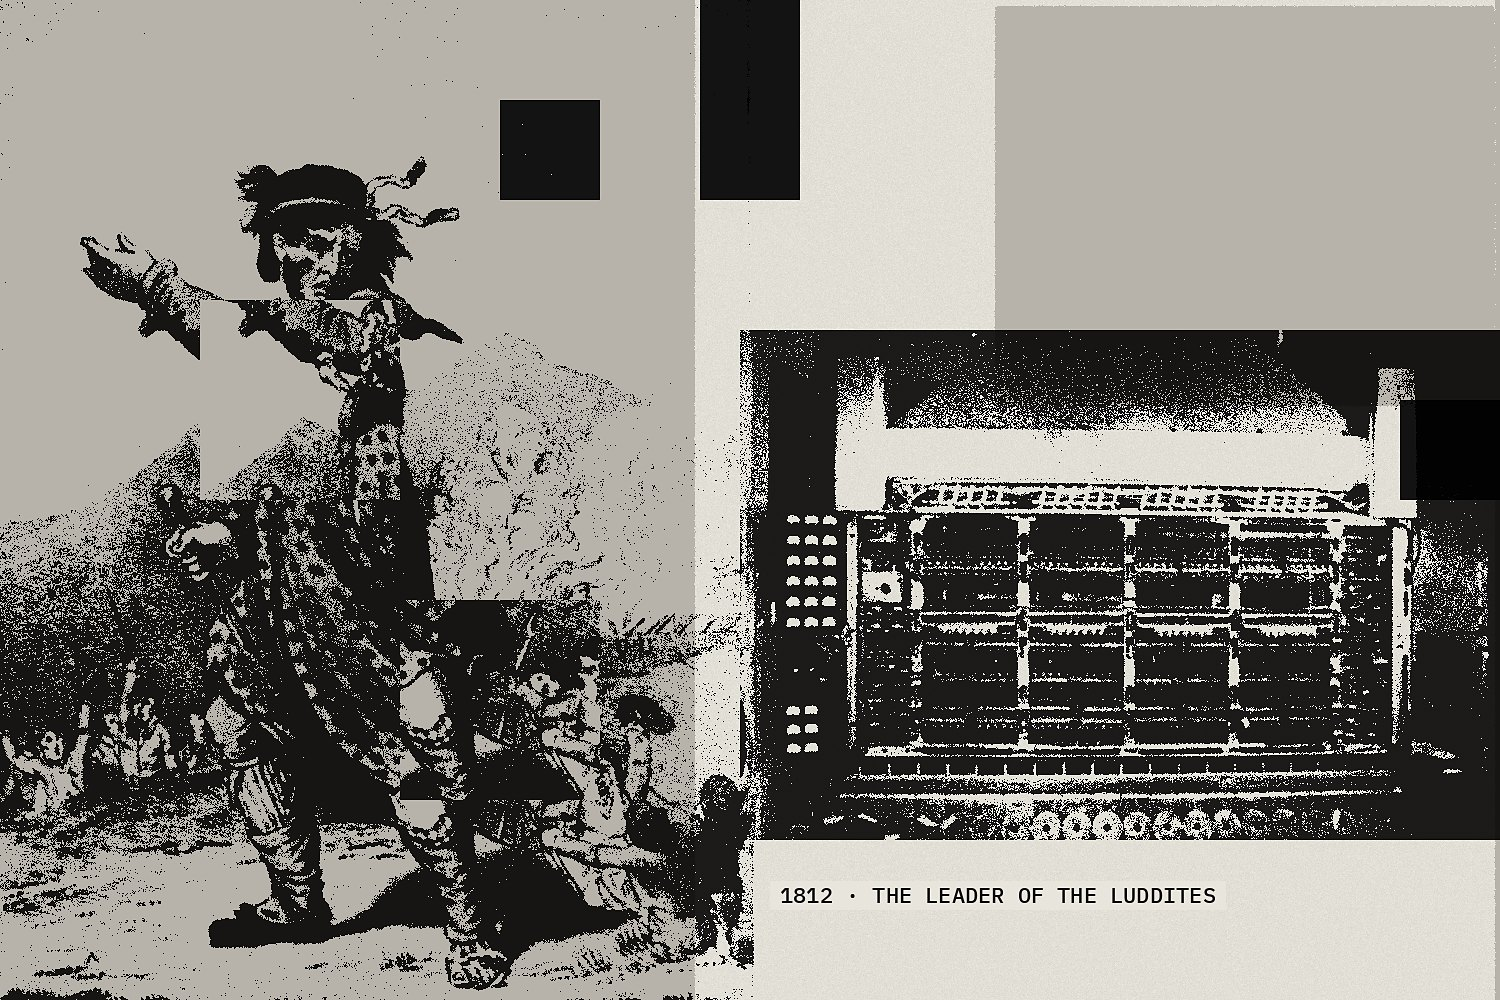
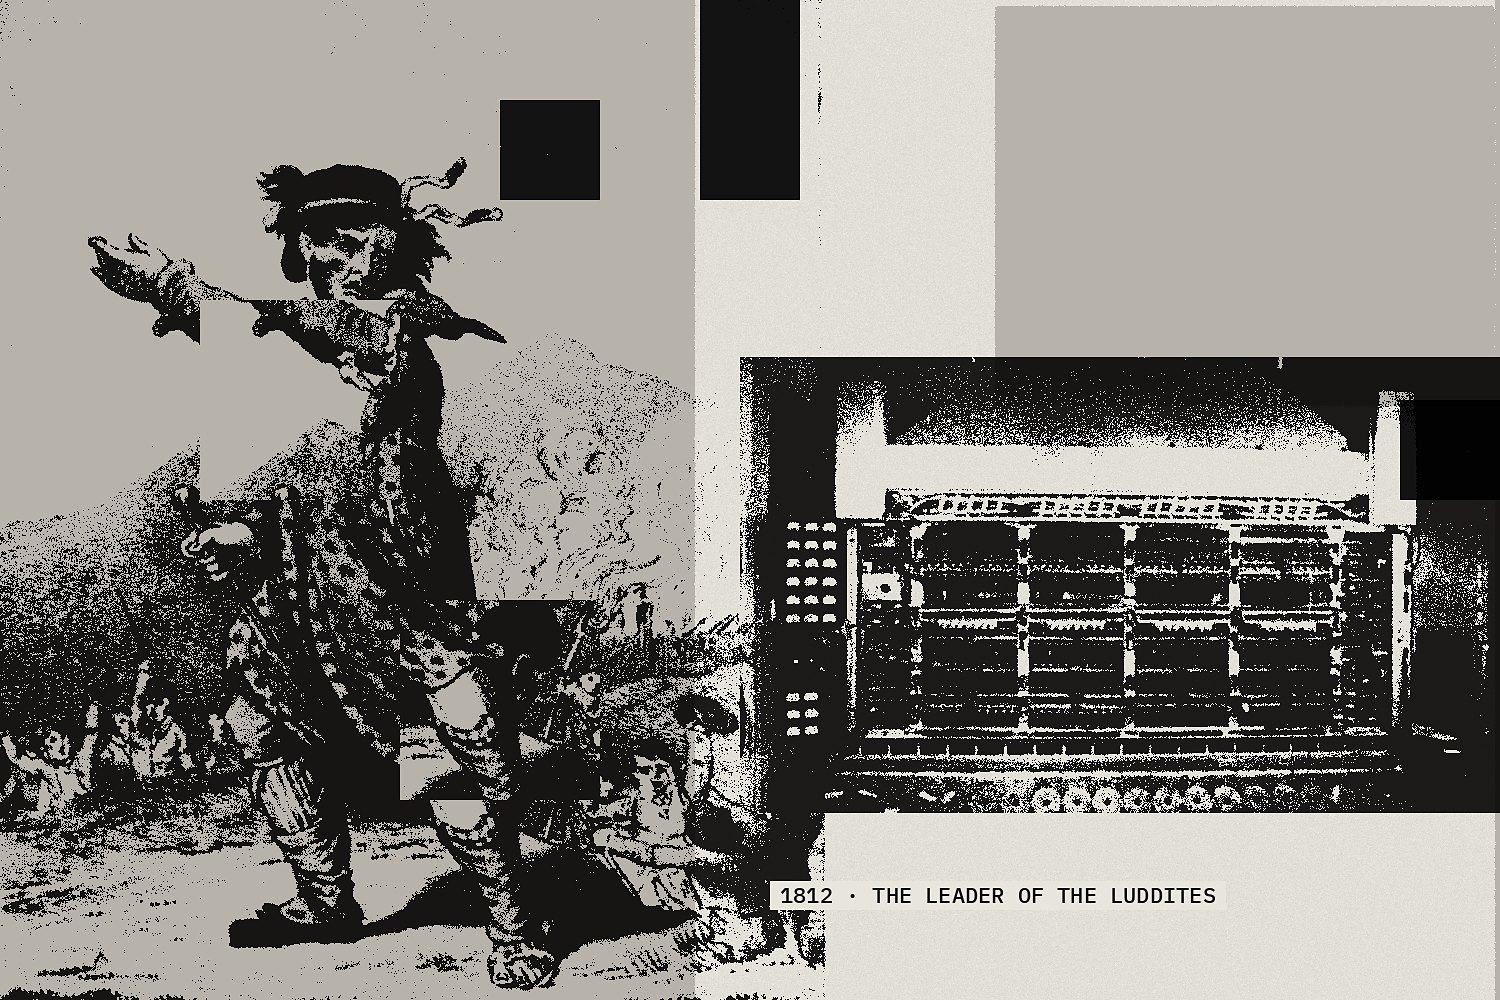
Vertical page images for the seven themes; fix stretched photos; warn on stretched crops
Claude-Session: https://claude.ai/code/session_01Sc1pzyhKsrC3mM6v1oVhk6

Changed region(s): [[0.0, 0.155, 1.0, 1.0], [0.0, 0.961, 0.1227, 1.0], [0.184, 0.992, 0.2453, 1.0]]

diff --git a/src/content.config.ts b/src/content.config.ts
@@ -19,6 +19,7 @@ const isms = defineCollection({
     includes: z.array(z.string()).default([]),
     aka: z.string().optional(),
     image: reference('images').optional(),
+    pageImage: reference('images').optional(), // the vertical (4:5) image at the top of the page
     lead: z.string().optional(),
     holders: z.array(z.object({ name: z.string(), note: z.string() })).default([]),
     words: z.array(z.string()).default([]),
@@ -38,6 +39,7 @@ const themes = defineCollection({
     summary: z.string(),
     includes: z.array(z.string()).default([]),
     image: reference('images').optional(),
+    pageImage: reference('images').optional(), // the vertical (4:5) image at the top of the page
     lead: z.string().optional(),
     isms: z.array(z.object({ ism: reference('isms'), text: z.string() })).default([]),
     strands: z

diff --git a/scripts/collages.py b/scripts/collages.py
@@ -6,7 +6,7 @@ import numpy as np
 from PIL import Image, ImageDraw, ImageFont, ImageFilter
 from scipy import ndimage
 
-import os
+import os, sys
 ROOT = os.path.dirname(os.path.dirname(os.path.abspath(__file__)))
 IMG = os.path.join(ROOT, 'public/images/')
 OUT = os.path.join(ROOT, 'public/images/')
@@ -28,6 +28,9 @@ def gray(name, box, crop=None, channel=None, detail=0):
     if crop:
         w, h = im.size
         im = im.crop((int(crop[0] * w), int(crop[1] * h), int(crop[2] * w), int(crop[3] * h)))
+    ratio = (im.size[0] / im.size[1]) / (box[0] / box[1])
+    if abs(ratio - 1) > 0.03:
+        print(f'WARNING {name}: box {box} stretches the crop by {abs(ratio - 1):.0%}; keep its aspect ratio', file=sys.stderr)
     im = im.resize(box, Image.LANCZOS)
     a = np.asarray(im, float) / 255
     if detail:                                            # local contrast, so fine ribs and grooves survive
@@ -116,7 +119,7 @@ def render(spec):
     return img
 
 
-ISM, THEME = (1600, 1200), (1500, 1000)
+ISM, THEME, PAGE = (1600, 1200), (1500, 1000), (1200, 1500)   # PAGE: the vertical image at the top of a page, 4:5, 12 x 15 squares
 SPECS = [
     dict(id='collage-transhumanism', size=ISM, colour=GREEN,
          fields=[(0, 1, 8, 9), (9, 0, 7, 6)], black=[(8, 0, 1, 2), (0, 10, 1, 2), (15, 7, 1, 1)],
@@ -162,12 +165,12 @@ SPECS = [
          labels=[('1954 · "TOO CHEAP TO METER" · LEWIS STRAUSS', 830, 222), ('AN ELECTRICITY METER', 40, 960)]),
     dict(id='collage-power', size=THEME, colour=GREY, seed=89,
          fields=[(0, 0, 9, 8)], black=[(12, 0, 1, 1), (14, 7, 1, 1)],
-         fragments=[dict(img='gpu-h100.jpg', box=(1080, 723), crop=(0.065, 0.13, 0.775, 0.945), how='screen', level=0.55, detail=3, blur=0.5, at=(40, 80))],
+         fragments=[dict(img='gpu-h100.jpg', box=(1080, 698), crop=(0.065, 0.13, 0.775, 0.945), how='screen', level=0.55, detail=3, blur=0.5, at=(40, 92))],
          shift=[(3, 2, 2, 2, 1, 0), (8, 5, 1, 2, 0, 1)], invert=[(1, 6, 1, 1)],
          labels=[('26 AUG 2022 · THE US REQUIRES A LICENCE TO SELL THE H100 TO CHINA', 40, 930)]),
     dict(id='collage-the-tool', size=THEME, colour=GREY, seed=144,
          fields=[(0, 0, 6, 6), (10, 6, 5, 4)], black=[(6, 0, 1, 1), (14, 9, 1, 1)],
-         fragments=[dict(img='engelbart-1968.jpg', box=(1240, 820), crop=(0.12, 0.34, 0.88, 0.92), how='screen', level=0.42, at=(130, 120))],
+         fragments=[dict(img='engelbart-1968.jpg', box=(1240, 631), crop=(0.12, 0.34, 0.88, 0.92), how='screen', level=0.42, at=(130, 180))],
          shift=[(8, 3, 2, 2, 1, 0), (4, 6, 2, 1, 0, 1)], invert=[(11, 2, 1, 1)],
          labels=[('1964 · THE FIRST MOUSE', 40, 960)]),
     dict(id='collage-scale', size=THEME, colour=GREY, seed=233,
@@ -178,7 +181,7 @@ SPECS = [
          labels=[('1960 · MARK I PERCEPTRON', 40, 960), ('FLOP · THE EU AI ACT THRESHOLD', 850, 900)]),
     dict(id='collage-rights-and-dignity', size=THEME, colour=GREY, seed=377,
          fields=[(0, 2, 8, 7)], black=[(8, 1, 1, 1), (14, 8, 1, 1)],
-         fragments=[dict(img='facial-recognition-camera.jpg', box=(860, 460), crop=(0.23, 0.69, 0.79, 0.90), channel='B', how='screen', level=0.42, at=(0, 300))],
+         fragments=[dict(img='facial-recognition-camera.jpg', box=(860, 430), crop=(0.23, 0.69, 0.79, 0.90), channel='B', how='screen', level=0.42, at=(0, 315))],
          shift=[(3, 6, 1, 1, -1, 0)], invert=[(6, 3, 1, 1)],
          labels=[("2 FEB 2025 · THE EU AI ACT'S BANS APPLY", 930, 525), ('POLICE FACIAL-RECOGNITION CAMERA · LONDON · 2026', 40, 960)]),
     dict(id='collage-self-determination', size=THEME, colour=GREY, seed=610,
@@ -188,10 +191,48 @@ SPECS = [
          labels=[('4TH CENTURY BCE · KLEROTERION, ATHENS', 40, 960)]),
     dict(id='collage-critique', size=THEME, colour=GREY, seed=987,
          fields=[(0, 0, 7, 10), (10, 0, 5, 4)], black=[(7, 0, 1, 2), (14, 4, 1, 1)],
-         fragments=[dict(img='luddites-1812.jpg', box=(760, 1000), crop=(0.05, 0.04, 0.95, 0.86), how='screen', level=0.55, at=(0, 0)),
-                    dict(img='sing-ias-computer.jpg', box=(760, 510), crop=(0.0, 0.05, 1.0, 0.95), how='screen', level=0.5, at=(740, 330))],
+         fragments=[dict(img='luddites-1812.jpg', box=(832, 1000), crop=(0.05, 0.04, 0.95, 0.86), how='screen', level=0.55, at=(0, 0)),
+                    dict(img='sing-ias-computer.jpg', box=(760, 456), crop=(0.0, 0.05, 1.0, 0.95), how='screen', level=0.5, at=(740, 357))],
          shift=[(2, 3, 2, 2, 1, 0), (4, 6, 2, 2, 0, -1)], invert=[(5, 1, 1, 1)],
          labels=[('1812 · THE LEADER OF THE LUDDITES', 780, 880)]),
+    # Vertical page images (4:5), one per theme: the same object and fact, composed for the tall frame
+    dict(id='collage-scale-tall', size=PAGE, colour=GREY, seed=233,
+         fields=[(0, 0, 9, 8)], black=[(11, 1, 1, 1), (0, 12, 1, 2)],
+         fragments=[dict(img='perceptron-1958.jpg', box=(1040, 843), how='screen', level=0.55, at=(0, 100))],
+         shift=[(3, 2, 2, 2, 1, 0), (5, 6, 2, 1, -1, 0)],
+         type=[dict(slab=(5, 10, 7, 4), parts=[('10', 300, 560, 1030), ('25', 140, 885, 1010)])],
+         labels=[('FLOP · THE EU AI ACT THRESHOLD', 565, 1345), ('1960 · MARK I PERCEPTRON', 40, 1440)]),
+    dict(id='collage-power-tall', size=PAGE, colour=GREY, seed=89,
+         fields=[(0, 2, 9, 10)], black=[(10, 0, 1, 1), (11, 13, 1, 1)],
+         fragments=[dict(img='gpu-h100.jpg', box=(1120, 724), crop=(0.065, 0.13, 0.775, 0.945), how='screen', level=0.55, detail=3, blur=0.5, at=(40, 380))],
+         shift=[(3, 5, 2, 2, 1, 0), (8, 8, 1, 2, 0, 1)], invert=[(1, 9, 1, 1)],
+         labels=[('26 AUG 2022 · THE US REQUIRES A LICENCE TO SELL THE H100 TO CHINA', 40, 1440)]),
+    dict(id='collage-rights-and-dignity-tall', size=PAGE, colour=GREY, seed=377,
+         fields=[(0, 4, 7, 7)], black=[(7, 3, 1, 1), (11, 12, 1, 1)],
+         fragments=[dict(img='facial-recognition-camera.jpg', box=(800, 400), crop=(0.23, 0.69, 0.79, 0.90), channel='B', how='screen', level=0.42, at=(0, 560))],
+         shift=[(3, 9, 1, 1, -1, 0)], invert=[(5, 5, 1, 1)],
+         labels=[('2 FEB 2025', 830, 700), ("THE EU AI ACT'S BANS APPLY", 830, 742), ('POLICE FACIAL-RECOGNITION CAMERA · LONDON · 2026', 40, 1440)]),
+    dict(id='collage-abundance-tall', size=PAGE, colour=GREY, seed=55,
+         fields=[(0, 1, 8, 10)], black=[(8, 0, 1, 2), (11, 9, 1, 1)],
+         fragments=[dict(img='electricity-meter.jpg', box=(760, 760), crop=(0.04, 0.06, 0.96, 0.86), how='screen', level=0.5, at=(40, 220))],
+         shift=[(3, 5, 2, 2, 1, 0), (6, 3, 1, 2, 0, 1)], invert=[(1, 8, 1, 1)],
+         labels=[('1954 · "TOO CHEAP TO METER"', 820, 365), ('LEWIS STRAUSS', 820, 407), ('AN ELECTRICITY METER', 40, 1440)]),
+    dict(id='collage-the-tool-tall', size=PAGE, colour=GREY, seed=144,
+         fields=[(0, 3, 7, 7), (8, 10, 4, 3)], black=[(7, 2, 1, 1), (11, 14, 1, 1)],
+         fragments=[dict(img='engelbart-1968.jpg', box=(1100, 560), crop=(0.12, 0.34, 0.88, 0.92), how='screen', level=0.42, at=(50, 470))],
+         shift=[(8, 6, 2, 2, 1, 0), (4, 8, 2, 1, 0, 1)], invert=[(10, 5, 1, 1)],
+         labels=[('1964 · THE FIRST MOUSE', 40, 1440)]),
+    dict(id='collage-self-determination-tall', size=PAGE, colour=GREY, seed=610,
+         fields=[(0, 1, 6, 8), (8, 10, 4, 4)], black=[(11, 1, 1, 1), (0, 13, 1, 1)],
+         fragments=[dict(img='kleroterion.jpg', box=(1120, 739), how='screen', level=0.47, at=(40, 360))],
+         shift=[(4, 5, 2, 2, 1, 0), (8, 8, 2, 2, 0, 1)], invert=[(3, 4, 2, 2)],
+         labels=[('4TH CENTURY BCE · KLEROTERION, ATHENS', 40, 1440)]),
+    dict(id='collage-critique-tall', size=PAGE, colour=GREY, seed=987,
+         fields=[(0, 0, 7, 12), (8, 0, 4, 4)], black=[(7, 0, 1, 2), (11, 5, 1, 1)],
+         fragments=[dict(img='luddites-1812.jpg', box=(916, 1101), crop=(0.05, 0.04, 0.95, 0.86), how='screen', level=0.55, at=(0, 0)),
+                    dict(img='sing-ias-computer.jpg', box=(700, 420), crop=(0.0, 0.05, 1.0, 0.95), how='screen', level=0.5, at=(500, 980))],
+         shift=[(2, 4, 2, 2, 1, 0), (4, 8, 2, 2, 0, -1)], invert=[(5, 2, 1, 1)],
+         labels=[('1812 · THE LEADER OF THE LUDDITES', 40, 1440)]),
 ]
 
 if __name__ == '__main__':

diff --git a/WORKPLAN.md b/WORKPLAN.md
@@ -42,6 +42,7 @@ Every session starts here: find the first stage that is not done, do the next pi
 ## Log
 
 - 2026-11-20: Collage set made for all 13 cards; Abundance rebuilt around an electricity meter (batch 3, 1 image, CC BY-SA 4.0).
+- 2026-11-20: Vertical page images (4:5, 1200 × 1500) for the seven themes, shown at the top of each theme page (`pageImage`). Fixed stretched photos on The tool, Rights and dignity, Critique and Power; the engine now warns when a box stretches its crop (ism cards still have some, to fix in their rework).
 - 2026-11-20: Illustration guide made as a design system, "Made Minds Illustration", from the seven theme cards and the owner's feedback. Ism cards to be reworked next, then added.
 - 2026-11-20: Site named Made Minds (owner). Power and Rights and dignity collages rebuilt around objects (batch 4: four NVIDIA H100 cards, CC BY 3.0; a London police facial-recognition camera, CC BY-SA 4.0). Then, at the owner's request, fewer big numbers: Power is the chips alone (label: the 2022 US licence for H100 sales to China); Rights and dignity shows EU. Then no big type on Abundance or Rights and dignity either: type stays only where it comes from another time than the object (2045, 10²⁵, e/acc, BUILD).
 - 2026-11-20: Image batch 2 (3 card images) downloaded; every ism card now has an image. Home grid rows aligned.

diff --git a/src/content/themes/self-determination.md b/src/content/themes/self-determination.md
@@ -5,6 +5,7 @@ ready: true
 summary: Who gets to decide, over data, over communities, over the future of AI itself.
 includes: [data sovereignty, democratic plurality]
 image: collage-self-determination
+pageImage: collage-self-determination-tall
 lead: Self-determination asks who decides how AI uses people's data and shapes their future, and the isms split between voice, markets, personal choice and exit.
 isms:
   - ism: transhumanism

diff --git a/src/content/themes/abundance.md b/src/content/themes/abundance.md
@@ -5,6 +5,7 @@ ready: true
 summary: The promise that AI will make intelligence and energy so cheap that scarcity ends.
 includes: [post-work]
 image: collage-abundance
+pageImage: collage-abundance-tall
 lead: The promise that AI will make intelligence, energy and goods so cheap that scarcity ends. Almost every ism in Silicon Valley makes it. They differ on when it comes, who gets it, and what it costs.
 isms:
   - ism: transhumanism

diff --git a/src/content/themes/critique.md b/src/content/themes/critique.md
@@ -5,6 +5,7 @@ ready: true
 summary: The voices outside the isms, and what they see that the isms miss.
 includes: [AI ethics, political economy, normal technology]
 image: collage-critique
+pageImage: collage-critique-tall
 lead: Critics outside the isms say AI's harms are present, its gains unevenly shared and its future ordinary; the isms divide over how to answer.
 isms:
   - ism: transhumanism

diff --git a/src/content/themes/rights-and-dignity.md b/src/content/themes/rights-and-dignity.md
@@ -5,6 +5,7 @@ ready: true
 summary: What every person is owed, and what no machine should take away.
 includes: [rights-based regulation, religious voices]
 image: collage-rights-and-dignity
+pageImage: collage-rights-and-dignity-tall
 lead: The claim that every person has rights that AI must respect; the isms divide over whether that claim stops at the human.
 isms:
   - ism: transhumanism

diff --git a/src/content/themes/power.md b/src/content/themes/power.md
@@ -5,6 +5,7 @@ ready: true
 summary: Who controls AI. Companies, states, or no one at all.
 includes: [AI nationalism, state-led AI, the populist right]
 image: collage-power
+pageImage: collage-power-tall
 lead: The question of who controls AI, which the isms answer with markets, nations, a global treaty, exit from the state, or the machines themselves.
 isms:
   - ism: transhumanism

diff --git a/src/content/themes/scale.md b/src/content/themes/scale.md
@@ -4,6 +4,7 @@ order: 4
 ready: true
 summary: The belief that intelligence comes from more data and computing power, not cleverer design.
 image: collage-scale
+pageImage: collage-scale-tall
 lead: The belief that intelligence grows with data, computing power and energy, and the isms differ on whether that growth is promise or danger.
 isms:
   - ism: transhumanism

diff --git a/src/content/themes/the-tool.md b/src/content/themes/the-tool.md
@@ -5,6 +5,7 @@ ready: true
 summary: AI as an instrument that extends people rather than replacing them.
 includes: [open-source AI]
 image: collage-the-tool
+pageImage: collage-the-tool-tall
 lead: AI as a tool that extends people rather than replacing them, and the isms split on whether powerful AI can stay one.
 isms:
   - ism: transhumanism
